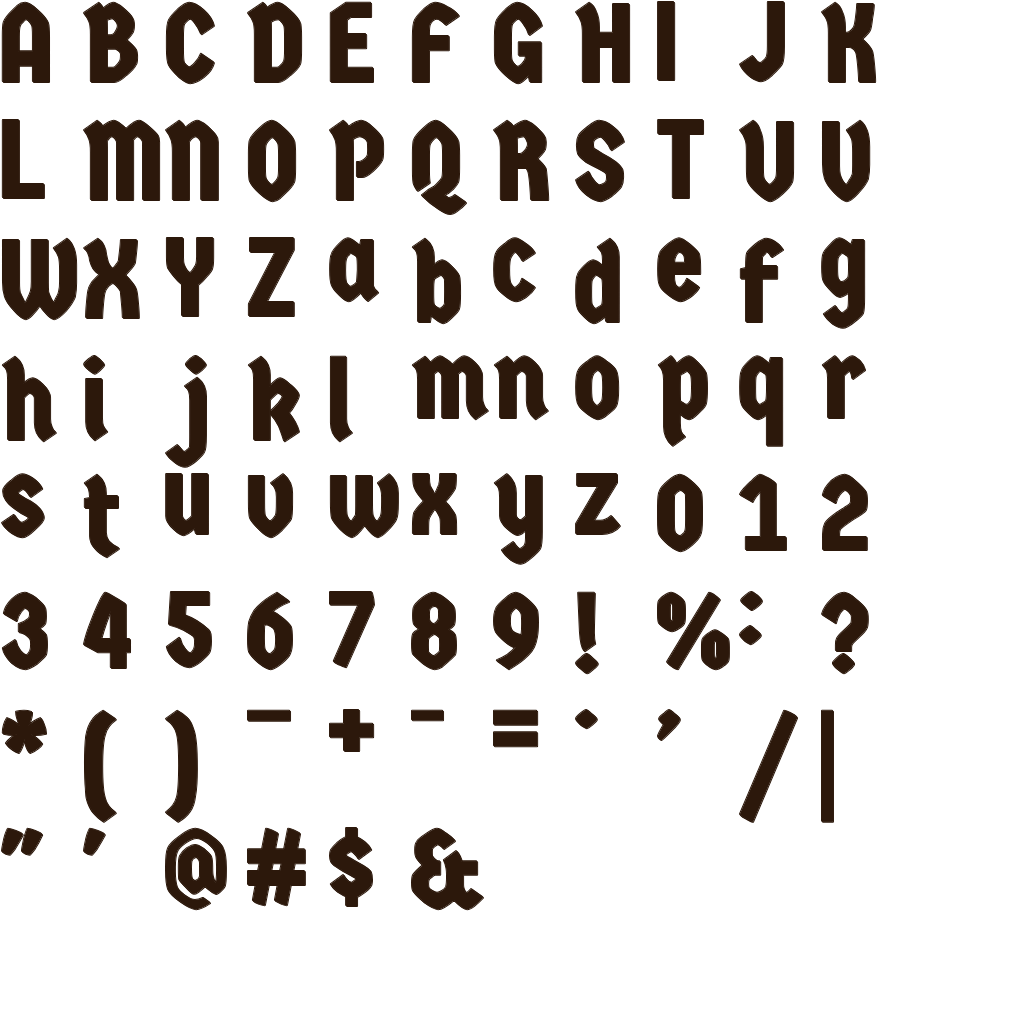
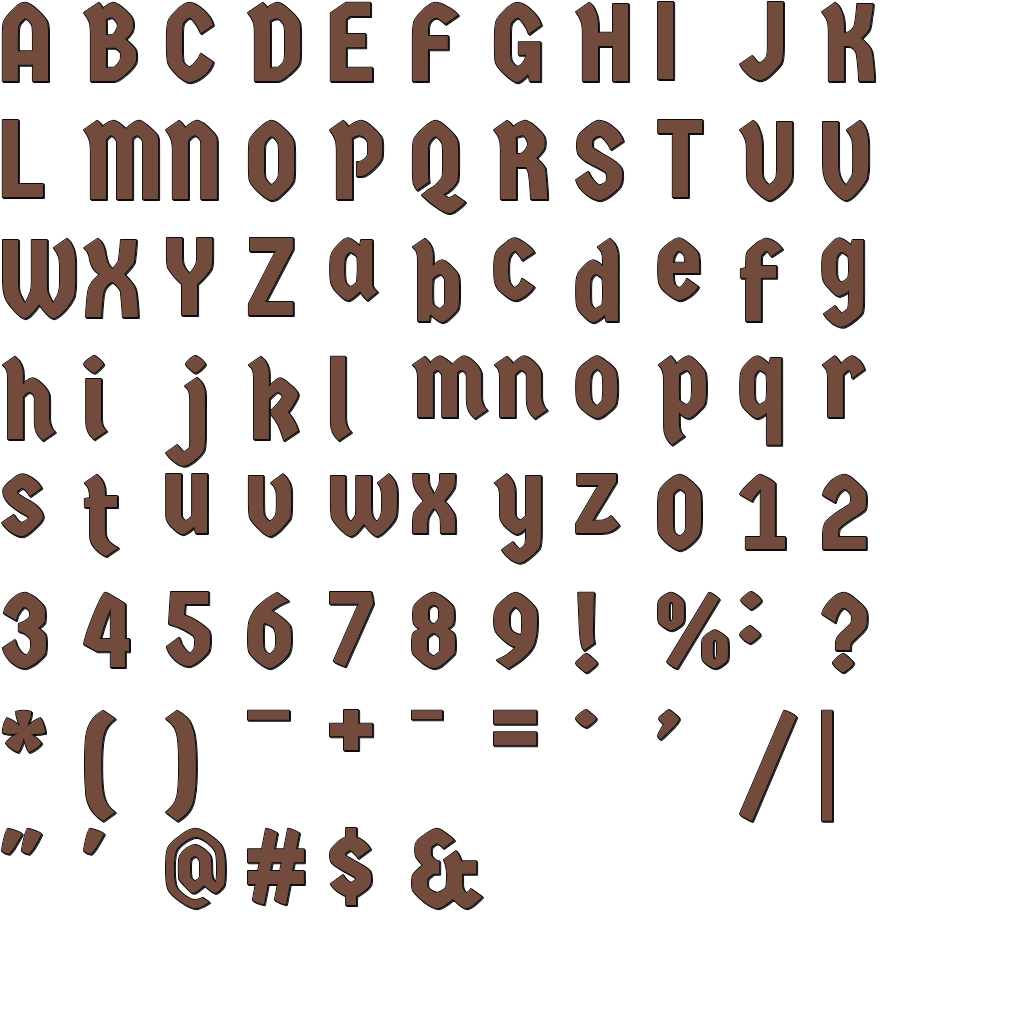
Fix Leaderboard + update brown text texture

diff --git a/src/ui.tsx b/src/ui.tsx
@@ -178,6 +178,14 @@ const SCREEN_SUBTITLE_FONT_SIZE_PX = SCREEN_TITLE_FONT_SIZE_PX * 0.6
 const LEADERBOARD_LIST_WIDTH_PX = 300
 const LEADERBOARD_ROW_NAME_FONT_SIZE_PX = 24
 const LEADERBOARD_ROW_SCORE_FONT_SIZE_PX = 16
+// Fixed width for the "1." / "10." rank column - wide enough for 2 digits + the dot, so every
+// row's rank is the same width and right-aligned (name column starts at the same x regardless of
+// rank digit count).
+const LEADERBOARD_RANK_WIDTH_PX = 40
+// PLACEHOLDER: reserved square for each row's profile picture. No real avatar data available yet
+// (LeaderboardEntry only carries playerName/score, no userId - see messages.ts) - this is layout
+// only, filled with a solid color until that's wired up.
+const LEADERBOARD_AVATAR_SIZE_PX = 28
 // Frame padding for board/checkpointSelect/inventory/leaderboard's nine-slice frame. Raw px at
 // the 1920x1080 virtual reference (matches the old 48px/1080px desktop look), scaled by
 // virtualWidth/virtualHeight - replaces the old runtime UiCanvasInformation.height read, which
@@ -826,7 +834,18 @@ function renderRarityBlock(rarity: RarityConfig, iconSizePx: number, marginRight
                     }}
                   >
                     <UiEntity uiTransform={{ padding: { top: 0, bottom: 2, left: 2, right: 0 }}} uiBackground={{ color: Color4.fromHexString('#00692c59') }}>
-                      <BitmapText text={`x${collectionCounts[slot]}`} font={GERM_ONE_FONT} image={GERM_ONE_IMAGE} fontSize={14} />
+                      {/* Label has no intrinsic size in DCL (text isn't measured for layout), so
+                      without an explicit width/height it renders inside an oversized default box.
+                      Width is sized off the string length (no true text measurement available) to
+                      track "x2" vs "x10" instead of leaving slack around longer counts. */}
+                      <Label
+                        value={`x${collectionCounts[slot]}`}
+                        fontSize={14}
+                        color={Color4.White()}
+                        textAlign="middle-center"
+                        textWrap="nowrap"
+                        uiTransform={{ width: `x${collectionCounts[slot]}`.length * 9, height: 16 }}
+                      />
                     </UiEntity>
                   </UiEntity>
                 )}
@@ -2041,7 +2060,7 @@ const MemoryMatchUi = () => (
               flexDirection: 'column',
               alignItems: 'center',
               padding: getFramePaddingPx(),
-              borderWidth: DEBUG_LAYOUT_BORDERS ? 2 : 0,
+              borderWidth: 2,
               borderColor: DEBUG_BORDER_RED
             }}
             uiBackground={{
@@ -2057,7 +2076,9 @@ const MemoryMatchUi = () => (
                 positionType: 'absolute',
                 position: { top: 8, right: 8 },
                 alignItems: 'center',
-                justifyContent: 'center'
+                justifyContent: 'center',
+                borderWidth: 2,
+                borderColor: DEBUG_BORDER_BLUE
               }}
               uiBackground={{ textureMode: 'stretch', texture: { src: ATLAS_02_IMAGE }, uvs: CLOSE_BUTTON_UVS }}
               onMouseDown={() => closeLeaderboard()}
@@ -2069,20 +2090,20 @@ const MemoryMatchUi = () => (
               fontSize={SCREEN_TITLE_FONT_SIZE_PX}
               uiTransform={{
                 margin: { bottom: 12 },
-                borderWidth: DEBUG_LAYOUT_BORDERS ? 2 : 0,
+                borderWidth: 2,
                 borderColor: DEBUG_BORDER_WHITE
               }}
             />
             <UiEntity
               uiTransform={{
-                width: LEADERBOARD_LIST_WIDTH_PX,
+                width: '90%',
                 flexDirection: 'column',
-                borderWidth: DEBUG_LAYOUT_BORDERS ? 2 : 0,
+                borderWidth: 2,
                 borderColor: DEBUG_BORDER_WHITE
               }}
             >
               {leaderboard.length === 0 ? (
-                <BitmapText text="No scores yet" font={GERM_ONE_FONT} image={GERM_ONE_IMAGE_BROWN} fontSize={SCREEN_SUBTITLE_FONT_SIZE_PX} uiTransform={{ width: '100%' }} align="center" />
+                <BitmapText text="No scores yet" font={GERM_ONE_FONT} image={GERM_ONE_IMAGE_BROWN} fontSize={SCREEN_SUBTITLE_FONT_SIZE_PX} uiTransform={{ width: '100%', borderWidth: 2, borderColor: DEBUG_BORDER_WHITE }} align="center" />
               ) : (
                 leaderboard.map((entry, index) => (
                   <UiEntity
@@ -2092,12 +2113,59 @@ const MemoryMatchUi = () => (
                       flexDirection: 'row',
                       justifyContent: 'space-between',
                       padding: { top: 4, bottom: 4 },
-                      borderWidth: DEBUG_LAYOUT_BORDERS ? 2 : 0,
+                      borderWidth: 2,
                       borderColor: DEBUG_BORDER_GREEN
                     }}
                   >
-                    <Label value={`${index + 1}. ${entry.playerName}`} fontSize={LEADERBOARD_ROW_NAME_FONT_SIZE_PX} color={SCREEN_TEXT_COLOR} />
-                    <BitmapText text={`${entry.score}`} font={GERM_ONE_FONT} image={GERM_ONE_IMAGE_BROWN} fontSize={LEADERBOARD_ROW_SCORE_FONT_SIZE_PX} />
+                    <UiEntity uiTransform={{ flexDirection: 'row', alignItems: 'center', flexShrink: 0 }}>
+                      <Label
+                        value={`${index + 1}.`}
+                        fontSize={LEADERBOARD_ROW_NAME_FONT_SIZE_PX}
+                        color={SCREEN_TEXT_COLOR}
+                        textAlign="middle-right"
+                        textWrap="nowrap"
+                        uiTransform={{
+                          width: LEADERBOARD_RANK_WIDTH_PX,
+                          height: LEADERBOARD_ROW_NAME_FONT_SIZE_PX * 1.3,
+                          flexShrink: 0,
+                          borderWidth: 2,
+                          borderColor: Color4.Yellow()
+                        }}
+                      />
+                      <UiEntity
+                        uiTransform={{
+                          width: LEADERBOARD_AVATAR_SIZE_PX,
+                          height: LEADERBOARD_AVATAR_SIZE_PX,
+                          flexShrink: 0,
+                          borderRadius: 999,
+                          margin: { right: 6 },
+                          borderWidth: 2,
+                          borderColor: Color4.Yellow()
+                        }}
+                        uiBackground={{ color: Color4.create(0.5, 0.5, 0.5, 1) }}
+                      />
+                      <Label
+                        value={entry.playerName}
+                        fontSize={LEADERBOARD_ROW_NAME_FONT_SIZE_PX}
+                        color={SCREEN_TEXT_COLOR}
+                        textWrap="nowrap"
+                        uiTransform={{
+                          width: LEADERBOARD_LIST_WIDTH_PX - 70 - LEADERBOARD_RANK_WIDTH_PX - LEADERBOARD_AVATAR_SIZE_PX - 6,
+                          height: LEADERBOARD_ROW_NAME_FONT_SIZE_PX * 1.3,
+                          flexShrink: 0,
+                          overflow: 'hidden',
+                          borderWidth: 2,
+                          borderColor: Color4.Yellow()
+                        }}
+                      />
+                    </UiEntity>
+                    <BitmapText
+                      text={`${entry.score}`}
+                      font={GERM_ONE_FONT}
+                      image={GERM_ONE_IMAGE_BROWN}
+                      fontSize={LEADERBOARD_ROW_SCORE_FONT_SIZE_PX}
+                      uiTransform={{ borderWidth: 2, borderColor: DEBUG_BORDER_BLUE }}
+                    />
                   </UiEntity>
                 ))
               )}
